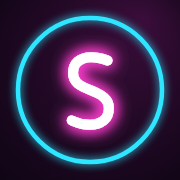
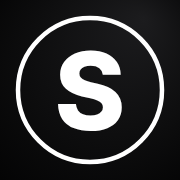
Visual preto minimalista e perfil no estilo de rede social
Claude-Session: https://claude.ai/code/session_015c5k1EqxJ95EpbZ7ZVSDvb

diff --git a/app.js b/app.js
@@ -99,7 +99,7 @@ function standings(since = 0){
 /* ---------- Pessoas ---------- */
 function nameOf(id){ return S.users[id]?.nick || "Jogador"; }
 function colorOf(id){ let h=0; for (const ch of String(id)) h = (h*31 + ch.charCodeAt(0))>>>0; return COLORS[h % COLORS.length]; }
-function avatar(id){ return `<span class="avatar" style="background:${colorOf(id)}" aria-hidden="true">${esc(nameOf(id).trim().charAt(0).toUpperCase() || "?")}</span>`; }
+function avatar(id){ return `<span class="avatar" aria-hidden="true">${esc(nameOf(id).trim().charAt(0).toUpperCase() || "?")}</span>`; }
 
 /* ---------- Tempo ---------- */
 function ago(ts){
@@ -198,7 +198,7 @@ function viewTabela(){
     <thead><tr><th>#</th><th class="l">Jogador</th><th title="Pontos">P</th><th title="Vitórias: saídas">V</th><th title="Saldo: beijos menos tocos">SG</th></tr></thead><tbody>
     ${rows.map((r,i) => `<tr class="${zone(i)} ${r.id===S.me?"me":""}">
       <td class="pos">${i+1}</td>
-      <td class="l name">${avatar(r.id)}${esc(nameOf(r.id))}</td>
+      <td class="l name"><a class="plink" href="#${r.id===S.me?"perfil":"j-"+esc(r.id)}">${avatar(r.id)}${esc(nameOf(r.id))}</a></td>
       <td class="pts">${r.P}</td><td>${r.V}</td><td>${r.SG>0?"+":""}${r.SG}</td>
     </tr>`).join("")}
   </tbody></table></div>`;
@@ -213,7 +213,7 @@ function viewFeed(){
     const summary = [countText(c, DRINKS), countText(c, RESENHA), c.pt ? "PT" : ""].filter(Boolean).join(" · ");
     const src = photoSrc(c.photoId), live = own && Date.now()-c.ts < 14*3600000;
     return `<article class="post clean">
-      <div class="post-h">${avatar(c.uid)}<div class="who-w"><div class="who">${esc(nameOf(c.uid))}</div><div class="when">${esc(c.place || t.label)} · ${ago(c.ts)}</div></div><b class="score ${r.total<0?"neg":t.cls}">${r.total>=0?"+":""}${r.total}</b></div>
+      <div class="post-h"><a class="plink" href="#${own?"perfil":"j-"+esc(c.uid)}">${avatar(c.uid)}</a><div class="who-w"><a class="who plink" href="#${own?"perfil":"j-"+esc(c.uid)}">${esc(nameOf(c.uid))}</a><div class="when">${esc(c.place || t.label)} · ${ago(c.ts)}</div></div><b class="score ${r.total<0?"neg":t.cls}">${r.total>=0?"+":""}${r.total}</b></div>
       ${c.photoId?`<div class="photo">${src?`<img src="${src}" alt="Foto do rolê de ${esc(nameOf(c.uid))}">`:""}</div>`:""}
       ${summary?`<div class="drinklist">${esc(summary)}</div>`:""}
       ${c.note?`<p class="note">${esc(c.note)}</p>`:""}
@@ -274,35 +274,81 @@ function viewDesafios(){
   </div>`;
 }
 
-function viewPerfil(){
-  const u = S.users[S.me] || {};
-  const st = playerStats(S.me);
-  const pos = standings(0).findIndex(r => r.id === S.me) + 1;
-  const login = auth.currentUser?.email || "";
-  const shownLogin = login.endsWith("@" + PHONE_DOMAIN) ? "+" + login.split("@")[0] : login;
-  return `<div class="join"><input class="field" id="nick" maxlength="24" aria-label="Apelido na tabela" value="${esc(u.nick||"")}"><button class="btn primary" id="saveNick" type="button">Salvar</button></div><div id="nickMsg" class="msg" role="status"></div>
-  <div class="big">
-    <div><b>${pos?pos+"º":"–"}</b><small>posição</small></div>
-    <div><b class="t-open">${st.P}</b><small>pontos</small></div>
-    <div><b>${st.V}</b><small>saídas</small></div>
-    <div><b>${st.SG>0?"+":""}${st.SG}</b><small>saldo</small></div>
-  </div>
-  <details class="more"><summary>Como pontua</summary>
-    <ul class="rulelist">
+const ICON = {
+  grid: '<svg viewBox="0 0 24 24" aria-hidden="true" fill="none" stroke="currentColor" stroke-width="1.8" stroke-linejoin="round"><rect x="3.5" y="3.5" width="7" height="7" rx="1.5"/><rect x="13.5" y="3.5" width="7" height="7" rx="1.5"/><rect x="3.5" y="13.5" width="7" height="7" rx="1.5"/><rect x="13.5" y="13.5" width="7" height="7" rx="1.5"/></svg>',
+  stats: '<svg viewBox="0 0 24 24" aria-hidden="true" fill="none" stroke="currentColor" stroke-width="1.8" stroke-linecap="round"><path d="M5 20V12M10 20V6M15 20V10M20 20V4"/></svg>',
+  cal: '<svg viewBox="0 0 24 24" aria-hidden="true" fill="none" stroke="currentColor" stroke-width="1.8" stroke-linecap="round"><rect x="3.5" y="5" width="17" height="15" rx="2.5"/><path d="M3.5 10h17M8 3v4M16 3v4"/></svg>',
+  photo: '<svg viewBox="0 0 24 24" aria-hidden="true" fill="none" stroke="currentColor" stroke-width="1.5" stroke-linejoin="round"><rect x="3" y="4.5" width="18" height="15" rx="2.5"/><circle cx="15.5" cy="9.5" r="1.8"/><path d="m3.5 17 5.5-5.5 4.5 4.5 2.5-2.5 4.5 4.5"/></svg>',
+};
+function viewPerfil(uid){
+  uid = uid || S.me;
+  const mine = uid === S.me;
+  const u = S.users[uid] || {};
+  const st = playerStats(uid);
+  const pos = standings(0).findIndex(r => r.id === uid) + 1;
+  const cs = S.checkins.filter(c => c.uid === uid);
+  const tab = S.profTab || "fotos";
+  let body = "";
+  if (tab === "fotos"){
+    const withPhoto = cs.filter(c => c.photoId);
+    body = withPhoto.length ? `<div class="pgrid">${withPhoto.map(c => { const src = photoSrc(c.photoId); return `<button class="pcell" ${mine?`data-edit="${esc(c.id)}"`:`data-goto="feed"`} aria-label="${esc(c.place || TYPES[c.type]?.label || "Rolê")}">${src?`<img src="${src}" alt="">`:""}<span class="pbadge">${ciCalc(c).total}</span></button>`; }).join("")}</div>`
+      : `<div class="pempty">${ICON.photo}<b>Ainda sem fotos</b>${mine?`<a href="#checkin" class="btn">Postar primeiro rolê</a>`:""}</div>`;
+  } else if (tab === "stats"){
+    const line = (l, v) => `<li><span>${l}</span><b>${v}</b></li>`;
+    body = `<ul class="statlist">
+      ${line("Pontos", st.P)}${line("Posição", pos ? pos + "º" : "–")}${line("Bares", st.bar)}${line("Festas", st.festa)}
+      ${line("Cervejas", st.cerveja)}${line("Copos de destilado", st.destilado)}${line("Shots", st.shot)}
+      ${line("Beijos", st.beijos)}${line("Tocos", st.tocos)}${line("Transas", st.transa)}${line("PTs", st.pt)}
+    </ul>`;
+  } else {
+    const byDay = {};
+    for (const c of cs){ const k = new Date(c.ts).toLocaleDateString("pt-BR",{weekday:"short",day:"2-digit",month:"short"}); (byDay[k] = byDay[k] || []).push(c); }
+    const days = Object.entries(byDay);
+    body = days.length ? `<ul class="statlist">${days.map(([d, l]) => `<li><span>${esc(d)}</span><b>${l.map(c => esc(c.place || TYPES[c.type]?.label)).join(", ")}</b></li>`).join("")}</ul>`
+      : `<div class="pempty">${ICON.cal}<b>Nenhum rolê ainda</b></div>`;
+  }
+  const panel = S.profPanel;
+  return `<section class="prof">
+    <div class="prof-top">
+      <div class="bigav" aria-hidden="true">${esc(nameOf(uid).trim().charAt(0).toUpperCase() || "?")}</div>
+      <div class="pstats">
+        <div><b>${st.P}</b><small>Pontos</small></div>
+        <div><b>${st.V}</b><small>Saídas</small></div>
+        <div><b>${st.doses}</b><small>Bebidas</small></div>
+        <div><b>${st.beijos}</b><small>Beijos</small></div>
+      </div>
+    </div>
+    <div class="pname">${esc(nameOf(uid))}${pos?`<span>${pos}º na liga</span>`:""}</div>
+    <div class="pbtns">
+      ${mine ? `<button class="btn" data-panel="edit" aria-expanded="${panel==="edit"}">Editar perfil</button>` : `<a class="btn" href="#tabela">Ver tabela</a>`}
+      <button class="btn" data-panel="rules" aria-expanded="${panel==="rules"}">Como pontua</button>
+    </div>
+    ${mine && panel === "edit" ? `<div class="ppanel"><label class="lbl" for="nick">Apelido</label><div class="join"><input class="field" id="nick" maxlength="24" value="${esc(u.nick||"")}"><button class="btn primary" id="saveNick" type="button">Salvar</button></div><div id="nickMsg" class="msg" role="status"></div>
+      <div class="acct"><span class="kc">${esc(loginLabel())}</span><button class="btn ghost" data-logout>Sair</button></div></div>` : ""}
+    ${panel === "rules" ? `<div class="ppanel"><ul class="rulelist">
       <li><span>Bar</span><b>5</b></li><li><span>Festa</span><b>10</b></li>
-      <li><span>Cerveja</span><b>1</b></li><li><span>Copo de destilado</span><b>2</b></li><li><span>Shot</span><b>3</b></li>
+      <li><span>Cerveja</span><b>1</b></li><li><span>Destilado</span><b>2</b></li><li><span>Shot</span><b>3</b></li>
       <li><span>Beijo</span><b>3</b></li><li><span>Toco</span><b>1</b></li><li><span>Transa</span><b>8</b></li><li><span>PT</span><b>−5</b></li>
-    </ul>
-    <p class="sub" style="margin:8px 0 0">Desempate: pontos, saídas (V), beijos menos tocos (SG).</p>
-  </details>
-  <div class="acct"><span class="kc">Conectado como ${esc(shownLogin)}</span><button class="btn ghost" data-logout>Sair</button></div>`;
+    </ul><p class="sub" style="margin:8px 0 0">Desempate: pontos, saídas (V), beijos menos tocos (SG).</p></div>` : ""}
+  </section>
+  <div class="ptabs" role="tablist">
+    <button role="tab" data-ptab="fotos" aria-selected="${tab==="fotos"}" aria-label="Fotos">${ICON.grid}</button>
+    <button role="tab" data-ptab="cal" aria-selected="${tab==="cal"}" aria-label="Calendário">${ICON.cal}</button>
+    <button role="tab" data-ptab="stats" aria-selected="${tab==="stats"}" aria-label="Estatísticas">${ICON.stats}</button>
+  </div>
+  ${body}`;
+}
+function loginLabel(){
+  const login = auth.currentUser?.email || "";
+  return "Conectado como " + (login.endsWith("@" + PHONE_DOMAIN) ? "+" + login.split("@")[0] : login);
 }
 
 /* ---------- Render ---------- */
 const VIEWS = { tabela: viewTabela, feed: viewFeed, checkin: viewCheckin, desafios: viewDesafios, perfil: viewPerfil };
 const TITLES = { tabela: "Tabela", feed: "Feed", checkin: "Postar", desafios: "Desafios", perfil: "Perfil" };
 let rendered = "";
-function route(){ const h = location.hash.slice(1); return VIEWS[h] ? h : "tabela"; }
+function route(){ const h = location.hash.slice(1); if (h.startsWith("j-")) return "jogador"; return VIEWS[h] ? h : "tabela"; }
+function routeUid(){ const h = location.hash.slice(1); return h.startsWith("j-") ? h.slice(2) : S.me; }
 function render(){
   const nav = $("nav.tabs");
   if (!configured){ nav.hidden = true; $("#pageTitle").textContent = "Quase lá"; $("#view").innerHTML = `<div class="empty"><b>Falta configurar</b>Cole as chaves do Firebase no arquivo config.js.</div>`; return; }
@@ -313,11 +359,12 @@ function render(){
   nav.hidden = false;
   const r = route();
   document.querySelectorAll("nav.tabs a").forEach(a => { if (a.getAttribute("href") === "#"+r) a.setAttribute("aria-current","page"); else a.removeAttribute("aria-current"); });
-  $("#pageTitle").textContent = r === "checkin" && S.draft.editId ? "Editar rolê" : TITLES[r];
+  const pu = r === "perfil" || r === "jogador" ? routeUid() : null;
+  $("#pageTitle").textContent = pu ? "@" + nameOf(pu).toLowerCase().replace(/\s+/g, "") : (r === "checkin" && S.draft.editId ? "Editar rolê" : TITLES[r]);
   $("#status").innerHTML = statusBanner();
   if (r === "checkin" && rendered === "checkin" && document.getElementById("ciForm")) { refreshPreview(); return; }
   if (r === "perfil" && rendered === "perfil" && document.activeElement?.id === "nick") return;
-  $("#view").innerHTML = VIEWS[r]();
+  $("#view").innerHTML = pu ? viewPerfil(pu) : VIEWS[r]();
   rendered = r;
 }
 function refreshPreview(){
@@ -325,7 +372,7 @@ function refreshPreview(){
   const t = $("#pvTotal"); if (t){ t.textContent = (prev.total>=0?"+":"") + prev.total; t.className = prev.total < 0 ? "neg" : TYPES[d.type].cls; }
   ALL.forEach(x => { const btn = document.querySelector(`[data-step="${x.k}"][data-d="1"]`); if (!btn) return; const box = btn.closest(".stp"); const q = num(d.n[x.k]); box.querySelector(".ctl b").textContent = q; box.classList.toggle("has", q>0); });
 }
-window.addEventListener("hashchange", () => { rendered = ""; render(); window.scrollTo(0,0); });
+window.addEventListener("hashchange", () => { rendered = ""; S.profPanel = ""; render(); window.scrollTo(0,0); });
 
 /* ---------- Dados ao vivo ---------- */
 function startData(){
@@ -355,6 +402,9 @@ document.addEventListener("click", async e => {
     if (!info || info.isPhone){ m.className = "msg err"; m.textContent = info?.isPhone ? "Quem entra pelo celular precisa pedir para o organizador redefinir a senha." : "Digite seu e-mail acima primeiro."; return; }
     try { await sendPasswordResetEmail(auth, info.email); m.className = "msg"; m.textContent = "Enviamos um link para o seu e-mail."; } catch(err){ m.className = "msg err"; m.textContent = authError(err); }
     return; }
+  const pt = e.target.closest("[data-ptab]"); if (pt){ S.profTab = pt.dataset.ptab; rendered = ""; render(); return; }
+  const pn = e.target.closest("[data-panel]"); if (pn){ S.profPanel = S.profPanel === pn.dataset.panel ? "" : pn.dataset.panel; rendered = ""; render(); return; }
+  const gt = e.target.closest("[data-goto]"); if (gt){ location.hash = "#" + gt.dataset.goto; return; }
   const st = e.target.closest("[data-step]");
   if (st){ const k = st.dataset.step; S.draft.n[k] = Math.max(0, num(S.draft.n[k]) + (+st.dataset.d)); refreshPreview(); return; }
   const tq = e.target.closest("[data-togglequick]");

diff --git a/style.css b/style.css
@@ -303,3 +303,113 @@ nav.tabs a.cta[aria-current="page"] span{color:var(--gold)}
 .authbox .btn.primary{width:100%}
 .acct{display:flex;align-items:center;justify-content:space-between;gap:10px;margin-top:22px;padding-top:12px;border-top:1px solid var(--line-2)}
 .acct .kc{min-width:0;overflow-wrap:anywhere}
+
+/* ===== Tema preto minimalista (iOS) ===== */
+:root{
+  --night:#000; --pitch:#1c1c1e; --pitch-2:#2c2c2e; --line:#2c2c2e; --line-2:#1f1f22;
+  --ink:#fff; --muted:#8e8e93;
+  --gold:#fff; --pink:#fff; --sky:#fff; --bad:#ff453a; --ok:#30d158;
+  --f-display:-apple-system,BlinkMacSystemFont,"SF Pro Display","Inter",system-ui,sans-serif;
+  --f-num:-apple-system,BlinkMacSystemFont,"SF Pro Display","Inter",system-ui,sans-serif;
+  --f-body:-apple-system,BlinkMacSystemFont,"SF Pro Text","Inter",system-ui,sans-serif;
+  --glow-pink:none; --glow-cyan:none;
+}
+body{background:#000;font-size:16px}
+body::before{background:#000}
+*{text-shadow:none!important}
+.wrap{padding-block:0 calc(110px + env(safe-area-inset-bottom,0px))}
+@media (min-width:520px){body{background:#000}.wrap{border-color:var(--line-2)}}
+header.top{background:rgba(0,0,0,.88);border-bottom:1px solid var(--line-2);padding-block:14px;margin-bottom:16px}
+header.top h1{font-family:var(--f-display);font-size:26px;font-weight:700;letter-spacing:-.01em;margin:0;min-width:0;overflow:hidden;text-overflow:ellipsis;white-space:nowrap}
+.count{border:0;background:var(--pitch);box-shadow:none;border-radius:999px;padding:6px 12px}
+.count b{color:#fff;font-size:16px;font-weight:700}
+.count small{color:var(--muted)}
+h2,.place,.ch h3,.typepick b,.empty b,label.drop b{font-family:var(--f-display);font-weight:700;letter-spacing:-.01em;text-transform:none}
+.eyebrow,legend,label.lbl,.liga th,.secline,.stats small,.big small{font-family:var(--f-body);letter-spacing:.02em;text-transform:none;font-weight:500}
+.pill,.typepick small{font-family:var(--f-body)}
+.banner{background:var(--pitch);border:0;border-radius:12px}
+.banner.warn{border:0}
+/* barra de abas flutuante */
+nav.tabs{bottom:calc(10px + env(safe-area-inset-bottom,0px));width:calc(100% - 32px);max-width:448px;border:1px solid #2a2a2c;border-radius:999px;background:rgba(28,28,30,.92);padding:6px;align-items:center}
+nav.tabs a,nav.tabs a[aria-current="page"]{color:#fff;border-radius:999px;padding:10px 0;font-size:0}
+nav.tabs a span{position:absolute;width:1px;height:1px;overflow:hidden;clip:rect(0 0 0 0)}
+nav.tabs a svg{width:28px;height:28px;stroke-width:1.7}
+nav.tabs a[aria-current="page"]{background:#000;color:#fff}
+nav.tabs a[aria-current="page"] svg{filter:none}
+nav.tabs a.cta,nav.tabs a.cta[aria-current="page"]{color:#fff}
+nav.tabs a.cta svg{width:30px;height:30px;padding:3px;margin:0;border:1.8px solid #fff;border-radius:50%;background:none;box-shadow:none;stroke-width:2}
+nav.tabs a.cta[aria-current="page"]{background:#000}
+.preview{bottom:calc(92px + env(safe-area-inset-bottom,0px));background:rgba(28,28,30,.96);border:1px solid #2a2a2c;box-shadow:none;border-radius:16px}
+/* superfícies */
+.tablebox,.post,.ch,.rule,.stp,.big div,.typepick label{background:var(--pitch)!important;border-color:transparent!important;box-shadow:none!important}
+.post.clean{background:none!important;border:0!important;border-bottom:1px solid var(--line-2)!important;border-radius:0;padding:14px 0}
+.photo{margin:10px 0;border-radius:12px;overflow:hidden;max-width:100%}
+.feed{gap:0}
+.avatar{background:var(--pitch-2)!important;color:#fff!important;box-shadow:none!important;font-family:var(--f-body)}
+.plink{color:inherit;text-decoration:none;display:inline-flex;align-items:center}
+.post-h .score{font-size:22px;color:#fff!important}
+.post-h .score.neg{color:var(--bad)!important}
+.tablebox{background:none!important}
+.liga.clean td{font-family:var(--f-num);font-size:17px}
+.liga.clean td.pts{color:#fff;font-weight:700}
+.liga tr.me{background:#111}
+.liga tr.z-lider td.pos::before,.liga tr.z-g4 td.pos::before{background:#fff;box-shadow:none}
+.liga tr.z-z4 td.pos::before{background:var(--bad)}
+.btn{background:var(--pitch);border:0;border-radius:10px;color:#fff;font-weight:600}
+.btn:hover{border:0;background:var(--pitch-2)}
+.btn.on{color:#000;background:#fff;box-shadow:none}
+.btn.ghost{background:none;color:var(--muted)}
+.btn.primary,.btn.primary:hover{background:#fff;color:#000;box-shadow:none;font-family:var(--f-body);text-transform:none;letter-spacing:0;font-size:17px;border-radius:12px}
+.field{background:var(--pitch);border:0;border-radius:12px;padding:12px 14px}
+.seg{background:var(--pitch);border:0;border-radius:10px}
+.seg button{font-family:var(--f-body);text-transform:none;letter-spacing:0;font-size:15px}
+.seg button[aria-pressed="true"]{background:#3a3a3c}
+.typepick label{color:#fff}
+.typepick label:has(input:checked){background:#fff!important;color:#000;box-shadow:none}
+.typepick label:has(input:checked) small{color:#000}
+.stp.has{background:#2c2c2e!important}
+.stp .ctl button{background:#3a3a3c;border:0;border-radius:50%}
+.stp .ctl button:active{background:#fff;color:#000}
+label.drop{border:1.5px dashed #3a3a3c;box-shadow:none;background:var(--pitch)}
+label.drop b{color:#fff}
+.quick,.qbtns{border:0}
+.ch .lead b{color:#fff}
+.empty{border:0;background:var(--pitch);border-radius:14px}
+.msg{color:var(--ok)}
+.msg.err{color:var(--bad)}
+.t-bar,.t-festa,.t-open{color:#fff}
+footer.resp{color:#48484a}
+/* perfil */
+.prof-top{display:flex;align-items:center;gap:18px}
+.bigav{flex:0 0 auto;width:96px;height:96px;border-radius:50%;background:var(--pitch-2);display:grid;place-items:center;font-size:44px;font-weight:600}
+.pstats{flex:1;display:grid;grid-template-columns:repeat(4,1fr);min-width:0}
+.pstats div{display:flex;flex-direction:column;align-items:center;gap:2px;border-left:1px solid #2c2c2e;min-width:0}
+.pstats div:first-child{border-left:0}
+.pstats b{font-size:20px;font-weight:700;font-variant-numeric:tabular-nums}
+.pstats small{font-size:12px;color:#fff;font-weight:500}
+.pname{margin:14px 0 12px;font-weight:600;font-size:17px;display:flex;align-items:baseline;gap:8px;flex-wrap:wrap}
+.pname span{color:var(--muted);font-weight:400;font-size:14px}
+.pbtns{display:grid;grid-template-columns:1fr 1fr;gap:8px}
+.pbtns .btn{text-align:center;padding:10px;font-size:15px;text-decoration:none;border:1px solid #2c2c2e;background:#1c1c1e}
+.pbtns .btn[aria-expanded="true"]{background:#2c2c2e}
+.ppanel{margin-top:12px;padding:14px;background:var(--pitch);border-radius:14px}
+.ppanel .acct{border-top-color:#2c2c2e}
+.ptabs{display:grid;grid-template-columns:repeat(3,1fr);margin:18px calc(-1 * max(16px,env(safe-area-inset-left,0px))) 0;border-top:1px solid var(--line-2);border-bottom:1px solid var(--line-2)}
+.ptabs button{background:none;border:0;color:var(--muted);padding:12px 0;cursor:pointer;border-bottom:1.5px solid transparent;display:grid;place-items:center}
+.ptabs button svg{width:26px;height:26px}
+.ptabs button[aria-selected="true"]{color:#fff;border-bottom-color:#fff}
+.pgrid{display:grid;grid-template-columns:repeat(3,1fr);gap:2px;margin:2px calc(-1 * max(16px,env(safe-area-inset-left,0px))) 0}
+.pcell{position:relative;aspect-ratio:1;max-width:100%;background:var(--pitch);border:0;padding:0;cursor:pointer;overflow:hidden}
+.pcell img{width:100%;height:100%;object-fit:cover;display:block}
+.pbadge{position:absolute;right:6px;bottom:6px;font-size:12px;font-weight:700;background:rgba(0,0,0,.6);padding:1px 6px;border-radius:999px}
+.pempty{display:flex;flex-direction:column;align-items:center;gap:14px;padding:70px 0 40px;color:var(--muted)}
+.pempty svg{width:64px;height:64px}
+.pempty b{color:#fff;font-size:22px;font-weight:700}
+.pempty .btn{text-decoration:none}
+.statlist{list-style:none;margin:8px 0 0;padding:0}
+.statlist li{display:flex;justify-content:space-between;gap:12px;padding:13px 0;border-bottom:1px solid var(--line-2);font-size:15px}
+.statlist li span{color:var(--muted)}
+.statlist li b{text-align:right;min-width:0;overflow-wrap:anywhere}
+.rulelist b{font-family:var(--f-body)}
+@media (max-width:370px){.bigav{width:76px;height:76px;font-size:34px}.pstats b{font-size:17px}.pstats small{font-size:11px}}
+.liga tr.me td.name::after{content:none}

diff --git a/index.html b/index.html
@@ -5,7 +5,7 @@
 <meta name="viewport" content="width=device-width,initial-scale=1,viewport-fit=cover">
 <title>Liga da Saideira</title>
 <meta name="description" content="A liga dos rolês até a virada.">
-<meta name="theme-color" content="#08040f">
+<meta name="theme-color" content="#000000">
 <meta name="apple-mobile-web-app-capable" content="yes">
 <meta name="mobile-web-app-capable" content="yes">
 <meta name="apple-mobile-web-app-status-bar-style" content="black-translucent">
@@ -15,19 +15,15 @@
 <link rel="manifest" href="manifest.webmanifest">
 <link rel="preconnect" href="https://fonts.googleapis.com">
 <link rel="preconnect" href="https://fonts.gstatic.com" crossorigin>
-<link rel="stylesheet" href="https://fonts.googleapis.com/css2?family=Tilt+Neon&family=Barlow+Condensed:wght@500;600;700&family=Outfit:wght@400;500;600;700&display=swap">
+<link rel="stylesheet" href="https://fonts.googleapis.com/css2?family=Inter:wght@400;500;600;700;800&display=swap">
 <link rel="stylesheet" href="style.css">
 </head>
 <body>
 <div class="wrap">
   <header class="top">
-    <div class="brand">
-      <h1>Liga da <span>Saideira</span></h1>
-    </div>
+    <h1 id="pageTitle">Liga da Saideira</h1>
     <div class="count" aria-live="polite"><b id="days">--</b><small id="daysLbl">dias</small></div>
   </header>
-
-  <h2 id="pageTitle" class="ptitle">Tabela</h2>
   <nav class="tabs" aria-label="Seções" hidden>
     <a href="#tabela"><svg viewBox="0 0 24 24" aria-hidden="true" fill="none" stroke="currentColor" stroke-width="2" stroke-linecap="round" stroke-linejoin="round"><path d="M8 21h8M12 17v4M7 4h10v5a5 5 0 0 1-10 0V4zM17 6h3v2a3 3 0 0 1-3 3M7 6H4v2a3 3 0 0 0 3 3"/></svg><span>Tabela</span></a>
     <a href="#feed"><svg viewBox="0 0 24 24" aria-hidden="true" fill="none" stroke="currentColor" stroke-width="2" stroke-linecap="round" stroke-linejoin="round"><rect x="3" y="4" width="18" height="16" rx="3"/><circle cx="9" cy="10" r="2"/><path d="m21 16-5-5-8 9"/></svg><span>Feed</span></a>
